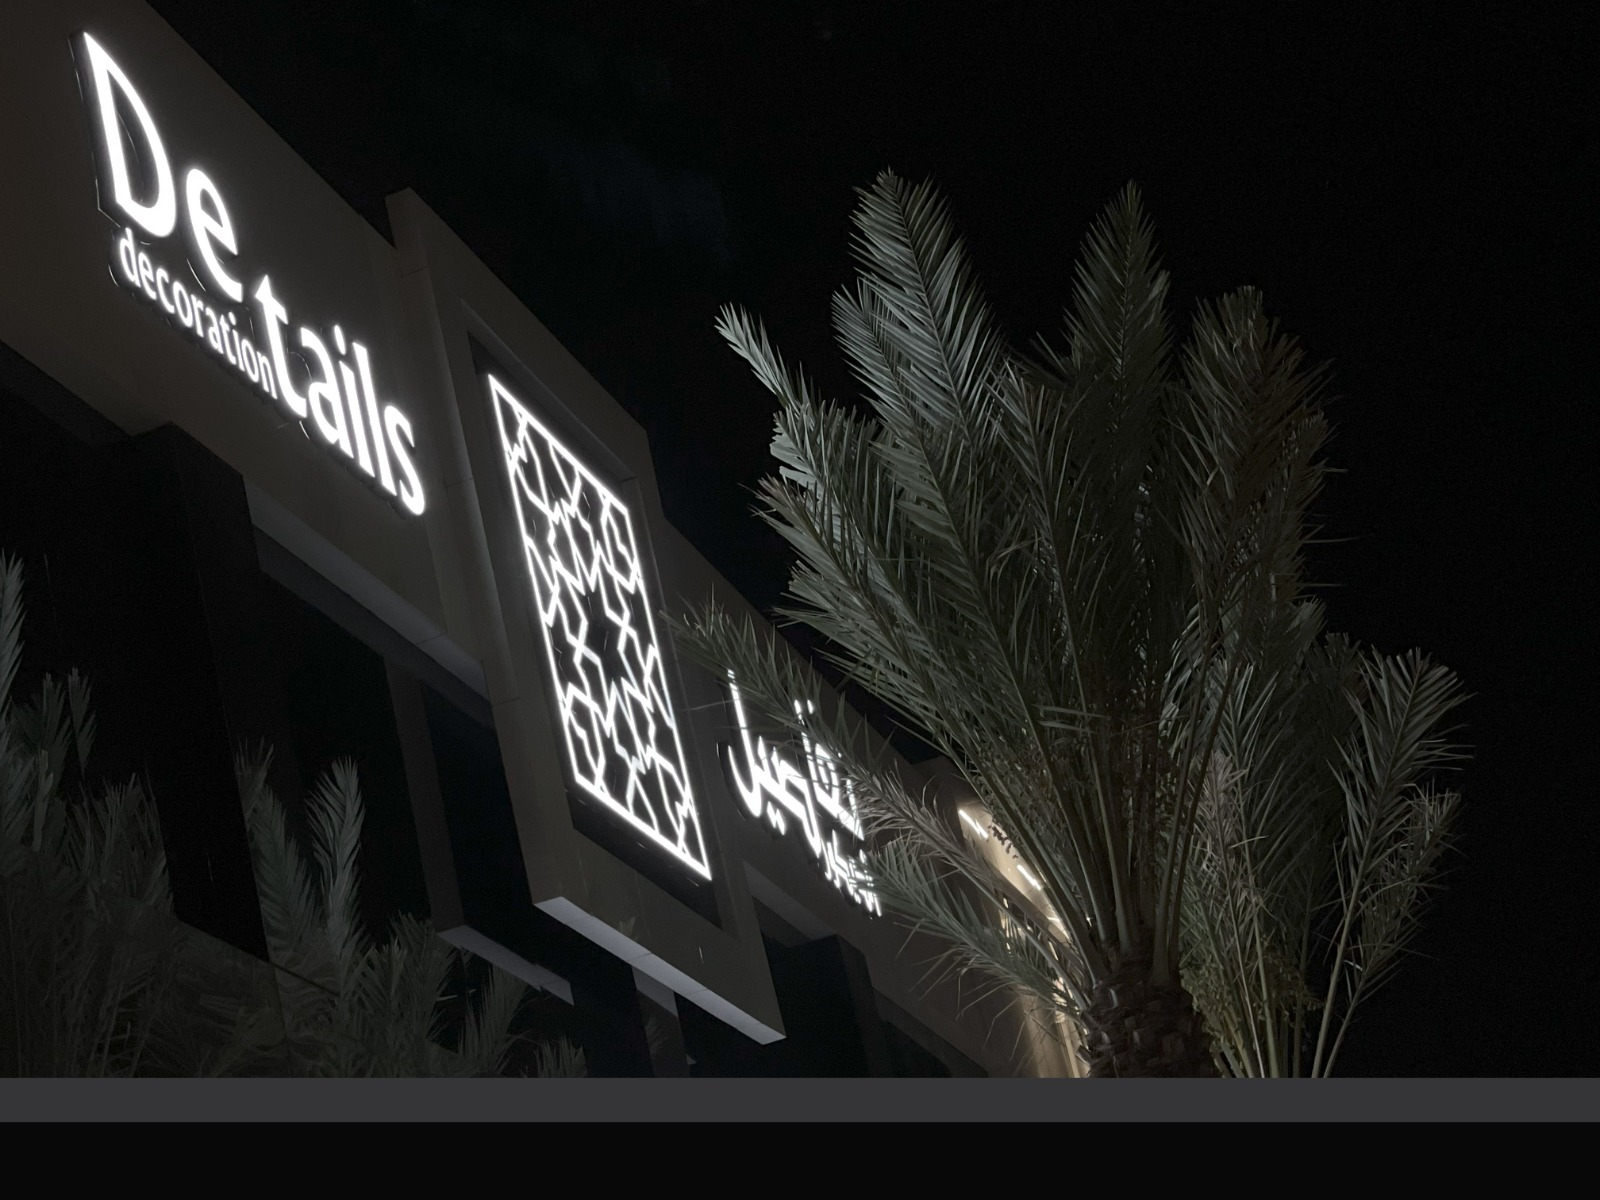
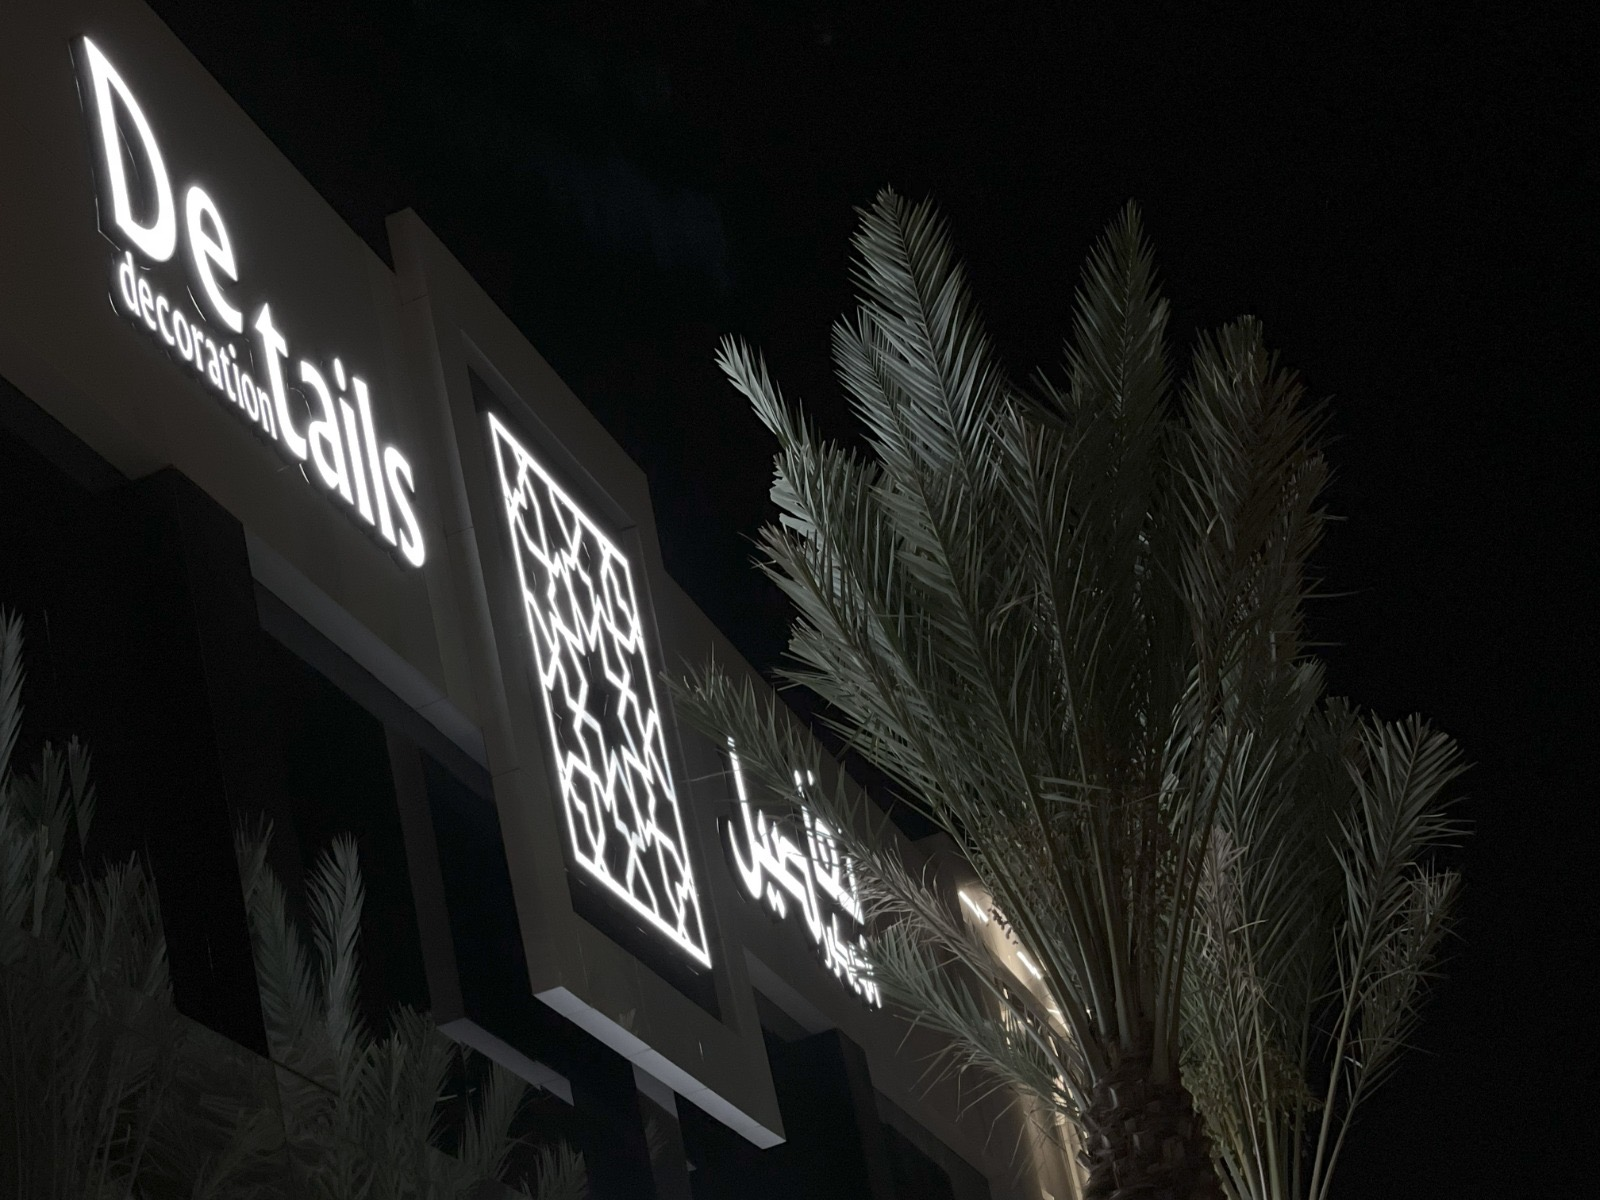
V6: use the exact requested storefront photo; sign+panel fully visible (mobile complete, desktop cover tuned)

diff --git a/index.html b/index.html
@@ -80,7 +80,7 @@ nav .navcta:hover{background:#fff;color:#000;border-color:#fff}
 /* HERO — design 6: photo background (complete on mobile, cover on desktop) */
 #hero{min-height:100svh;position:relative;display:grid;align-items:end;justify-items:center;text-align:center;overflow:hidden;background:#000;isolation:isolate}
 #hero .bg{position:absolute;inset:0;z-index:0}
-#hero .bg img{width:100%;height:100%;object-fit:cover;object-position:34% 28%}
+#hero .bg img{width:100%;height:100%;object-fit:cover;object-position:28% 24%}
 #hero .bg::after{content:"";position:absolute;inset:0;background:linear-gradient(180deg,rgba(0,0,0,.28),rgba(0,0,0,.05) 30%,rgba(0,0,0,.5) 72%,rgba(0,0,0,.9) 100%)}
 #hero .bg::before{content:"";position:absolute;inset:0;box-shadow:inset 0 0 220px 50px rgba(0,0,0,.5);pointer-events:none}
 #hero .hero-inner{position:relative;z-index:2;padding:5rem 1.2rem 3.4rem;max-width:660px;width:100%}
